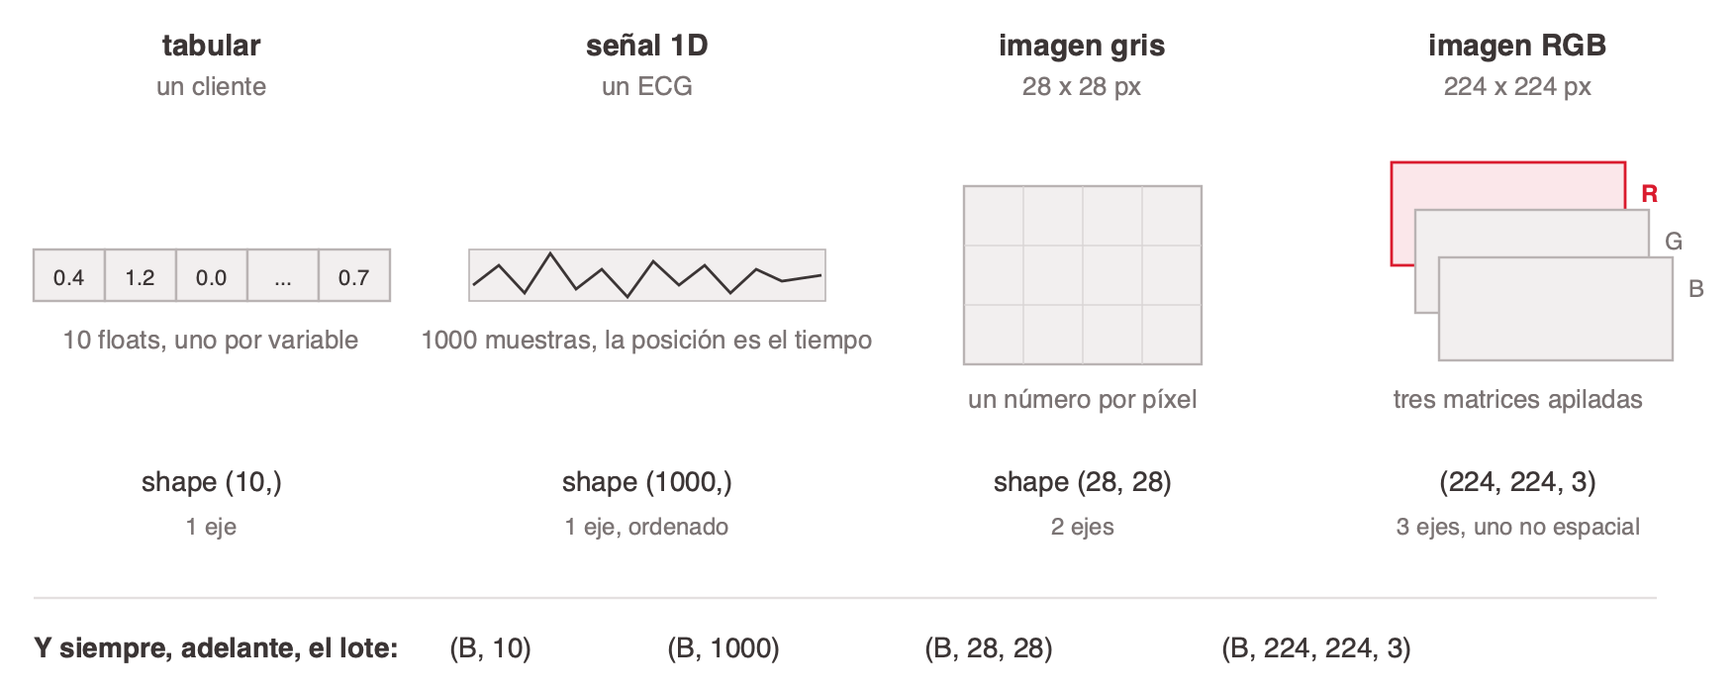
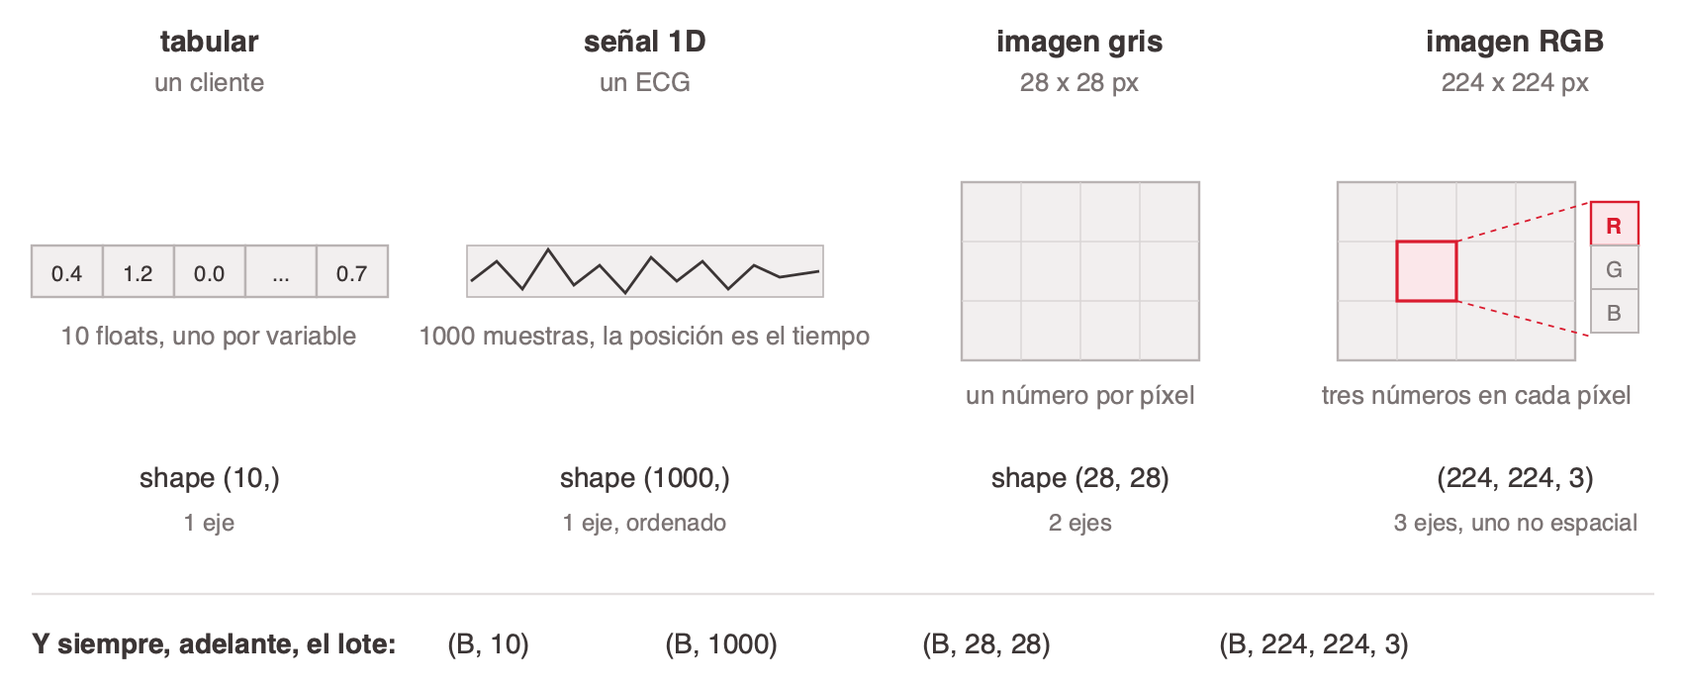
Fix.

diff --git a/talks/modelado-redes-neuronales/output/html/index.html b/talks/modelado-redes-neuronales/output/html/index.html
@@ -695,10 +695,10 @@ html.deck-ui .reveal .controls .navigate-left,html.deck-ui .reveal .controls .na
 </div>
 <aside class="notes"><p>Abrí con esto porque reordena toda la clase. La mayoría llega pensando que diseñar una red es elegir capas. Planteales la pregunta: ¿qué ve realmente la red cuando le pasás un cliente? La respuesta (un vector de números) es el hilo de las próximas dos secciones. Anclá la idea de traducción con pérdida: es la que justifica dedicarle 20 minutos a la entrada.</p></aside></section><section class="slide" data-kind="content+cards+image"><div class="stage d-split side-right">
 <div class="shead"><span class="pill">Qué se diseña de verdad</span><h2 class="stitle">Cómo se ve un tensor</h2><p class="lead">La forma del tensor la decide la estructura del dato, y es lo primero que hay que saber decir de un problema.</p></div><div class="cbody"><div class="cfit"><div class="ccicards">
-<div class="ccard sm fragment fade-up"><span class="ic"><svg fill="currentColor" xmlns="http://www.w3.org/2000/svg" viewBox="0 -960 960 960"><path d="M300-80q-24 0-42-18t-18-42v-520q0-24 18-42t42-18h520q24 0 42 18t18 42v520q0 24-18 42t-42 18H300Zm0-60h230v-147H300v147Zm290 0h230v-147H590v147ZM80-244v-576q0-24 18-42t42-18h576v60H140v576H80Zm220-103h230v-148H300v148Zm290 0h230v-148H590v148ZM300-555h520v-105H300v105Z"/></svg></span><h3>Tabular: un eje</h3><p>Un vector de largo fijo, una posición por variable ya codificada. Es el caso de esta clase.</p></div><div class="ccard sm fragment fade-up"><span class="ic"><svg fill="currentColor" xmlns="http://www.w3.org/2000/svg" viewBox="0 -960 960 960"><path d="m627-287 45-45-159-160v-201h-60v225l174 181ZM480-80q-82 0-155-31.5t-127.5-86Q143-252 111.5-325T80-480q0-82 31.5-155t86-127.5Q252-817 325-848.5T480-880q82 0 155 31.5t127.5 86Q817-708 848.5-635T880-480q0 82-31.5 155t-86 127.5Q708-143 635-111.5T480-80Zm0-400Zm0 340q140 0 240-100t100-240q0-140-100-240T480-820q-140 0-240 100T140-480q0 140 100 240t240 100Z"/></svg></span><h3>Señal 1D: un eje ordenado</h3><p>También un vector, pero la posición es el tiempo y las vecinas están relacionadas. Eso explota una Conv 1D.</p></div><div class="ccard sm fragment fade-up"><span class="ic"><svg fill="currentColor" xmlns="http://www.w3.org/2000/svg" viewBox="0 -960 960 960"><path d="M284-277h60v-205h-60v205Zm332 0h60v-420h-60v420Zm-166 0h60v-118h-60v118Zm0-205h60v-60h-60v60ZM180-120q-24 0-42-18t-18-42v-600q0-24 18-42t42-18h600q24 0 42 18t18 42v600q0 24-18 42t-42 18H180Zm0-60h600v-600H180v600Zm0-600v600-600Z"/></svg></span><h3>Imagen gris: dos ejes</h3><p>Una matriz, un número por píxel, con vecindad en alto y ancho.</p></div><div class="ccard sm fragment fade-up"><span class="ic"><svg fill="currentColor" xmlns="http://www.w3.org/2000/svg" viewBox="0 -960 960 960"><path d="M680-875q66 0 113 47t47 113q0 11-1.5 29.5T834-643l-55 403q-5 41-36 63.5T677-154q-21 0-41-9t-34-29L495-348q-2-3-6.5-5t-9.5-2q-2 0-16 9L359-195q-14 21-35 31t-43 10q-35 0-65.5-22.5T180-241l-54-402q-3-24-4.5-42.5T120-715q0-66 47-113t113-47q36 0 57.5 9.5T379-845q20 11 42.5 20.5T480-815q36 0 58.5-9.5T581-845q20-11 42-20.5t57-9.5Zm0 60q-23 0-40 7t-35 18q-32 18-59.5 26.5T480-755q-38 0-65-8.5T356-790q-18-11-35.5-18t-40.5-7q-42 0-71 29t-29 71q0 8 1 24t4 37l55 404q2 17 14.5 26t26.5 9q9 0 17-4.5t14-12.5l101-148q12-17 30-26t37-9q19 0 36.5 9t29.5 26l103 151q5 8 13 11.5t16 3.5q14 0 26.5-9.5T719-248l56-406q3-21 4-37t1-24q0-42-29-71t-71-29ZM480-515Z"/></svg></span><h3>Imagen RGB: tres ejes</h3><p>Tres matrices apiladas. El canal no es espacial: son tres variables en el mismo punto, y se puede reordenar.</p></div></div>
+<div class="ccard sm fragment fade-up"><span class="ic"><svg fill="currentColor" xmlns="http://www.w3.org/2000/svg" viewBox="0 -960 960 960"><path d="M300-80q-24 0-42-18t-18-42v-520q0-24 18-42t42-18h520q24 0 42 18t18 42v520q0 24-18 42t-42 18H300Zm0-60h230v-147H300v147Zm290 0h230v-147H590v147ZM80-244v-576q0-24 18-42t42-18h576v60H140v576H80Zm220-103h230v-148H300v148Zm290 0h230v-148H590v148ZM300-555h520v-105H300v105Z"/></svg></span><h3>Tabular: un eje</h3><p>Un vector de largo fijo, una posición por variable ya codificada. Es el caso de esta clase.</p></div><div class="ccard sm fragment fade-up"><span class="ic"><svg fill="currentColor" xmlns="http://www.w3.org/2000/svg" viewBox="0 -960 960 960"><path d="m627-287 45-45-159-160v-201h-60v225l174 181ZM480-80q-82 0-155-31.5t-127.5-86Q143-252 111.5-325T80-480q0-82 31.5-155t86-127.5Q252-817 325-848.5T480-880q82 0 155 31.5t127.5 86Q817-708 848.5-635T880-480q0 82-31.5 155t-86 127.5Q708-143 635-111.5T480-80Zm0-400Zm0 340q140 0 240-100t100-240q0-140-100-240T480-820q-140 0-240 100T140-480q0 140 100 240t240 100Z"/></svg></span><h3>Señal 1D: un eje, pero el orden importa</h3><p>También un vector, pero la posición es el tiempo y las vecinas están relacionadas. En tabular esa relación no existe.</p></div><div class="ccard sm fragment fade-up"><span class="ic"><svg fill="currentColor" xmlns="http://www.w3.org/2000/svg" viewBox="0 -960 960 960"><path d="M284-277h60v-205h-60v205Zm332 0h60v-420h-60v420Zm-166 0h60v-118h-60v118Zm0-205h60v-60h-60v60ZM180-120q-24 0-42-18t-18-42v-600q0-24 18-42t42-18h600q24 0 42 18t18 42v600q0 24-18 42t-42 18H180Zm0-60h600v-600H180v600Zm0-600v600-600Z"/></svg></span><h3>Imagen gris: dos ejes</h3><p>Una matriz, un número por píxel, con vecindad en alto y ancho.</p></div><div class="ccard sm fragment fade-up"><span class="ic"><svg fill="currentColor" xmlns="http://www.w3.org/2000/svg" viewBox="0 -960 960 960"><path d="M520-360h50v-90l84 90h66L608-480l112-120h-66l-84 90v-90h-50v240Zm-150 0h50v-63h40v-50h-40v-127h-50v127h-64v-127h-50v177h114v63ZM180-120q-24 0-42-18t-18-42v-600q0-24 18-42t42-18h600q24 0 42 18t18 42v600q0 24-18 42t-42 18H180Zm0-60h600v-600H180v600Zm0-600v600-600Z"/></svg></span><h3>Imagen RGB: tres ejes, y el tercero es distinto</h3><p>No son tres imágenes una atrás de otra: es la misma grilla, con tres números en cada píxel. Alto y ancho tienen vecindad; el canal no.</p></div></div>
 </div></div>
-<div class="highlights hl-bottom fragment fade-up"><div class="highlight note"><span class="ic"><svg fill="currentColor" xmlns="http://www.w3.org/2000/svg" viewBox="0 -960 960 960"><path d="M180-180h400v-200h200v-400H180v600Zm0 60q-24.75 0-42.37-17.63Q120-155.25 120-180v-600q0-24.75 17.63-42.38Q155.25-840 180-840h600q24.75 0 42.38 17.62Q840-804.75 840-780v420L600-120H180Zm120-300v-60h170v60H300Zm0-160v-60h360v60H300ZM180-180v-600 600Z"/></svg></span><p>El lote es una dimensión más, siempre adelante. Un <code>Dense(32)</code> que recibe <code>(B, 10)</code> devuelve <code>(B, 32)</code>: los mismos pesos se aplican a las B filas.</p></div></div><div class="smedia"><div class="imgph svg"><!-- talksmith-ascii-sha256: 55f4ff0f5bd879887e4936d1398d8ae567543619b772ea6fdf0751f08a0a7bca -->
-<svg xmlns="http://www.w3.org/2000/svg" viewBox="23 24 877 350" font-family="Helvetica, Arial, sans-serif" fill="#3B3535" font-size="13">
+<div class="highlights hl-bottom fragment fade-up"><div class="highlight note"><span class="ic"><svg fill="currentColor" xmlns="http://www.w3.org/2000/svg" viewBox="0 -960 960 960"><path d="M180-180h400v-200h200v-400H180v600Zm0 60q-24.75 0-42.37-17.63Q120-155.25 120-180v-600q0-24.75 17.63-42.38Q155.25-840 180-840h600q24.75 0 42.38 17.62Q840-804.75 840-780v420L600-120H180Zm120-300v-60h170v60H300Zm0-160v-60h360v60H300ZM180-180v-600 600Z"/></svg></span><p>El lote es una dimensión más, siempre adelante. Un <code>Dense(32)</code> que recibe <code>(B, 10)</code> devuelve <code>(B, 32)</code>: los mismos pesos se aplican a las B filas.</p></div><div class="highlight takeaway"><span class="ic"><svg fill="currentColor" xmlns="http://www.w3.org/2000/svg" viewBox="0 -960 960 960"><path d="M200-120v-680h343l19 86h238v370H544l-18.93-85H260v309h-60Zm300-452Zm95 168h145v-250H511l-19-86H260v251h316l19 85Z"/></svg></span><p>El resto de la clase trabaja sobre el primer caso, el tabular. Los otros tres están para que se vea que la forma la decide el dato.</p></div></div><div class="smedia"><div class="imgph svg"><!-- talksmith-ascii-sha256: 55f4ff0f5bd879887e4936d1398d8ae567543619b772ea6fdf0751f08a0a7bca -->
+<svg xmlns="http://www.w3.org/2000/svg" viewBox="24 26 851 348" font-family="Helvetica, Arial, sans-serif" fill="#3B3535" font-size="13">
   <title>Cómo se ve un tensor</title>
   <desc>La forma del tensor la decide la estructura del dato: un eje en tabular y señal, dos en una imagen gris, tres en RGB.</desc>
   <rect x="0" y="0" width="900" height="400" fill="#ffffff"/>
@@ -737,13 +737,19 @@ html.deck-ui .reveal .controls .navigate-left,html.deck-ui .reveal .controls .na
   <text x="570" y="200" text-anchor="middle" fill="#7A7373"> </text>
   <text x="570" y="230" text-anchor="middle" fill="#7A7373">un número por píxel</text>
 
-  <rect x="726" y="106" width="118" height="52" fill="#FBE7EA" stroke="#DA1B2E" stroke-width="1.4"/>
-  <rect x="738" y="130" width="118" height="52" fill="#F2EFEF" stroke="#B9B3B3" stroke-width="1.2"/>
-  <rect x="750" y="154" width="118" height="52" fill="#F2EFEF" stroke="#B9B3B3" stroke-width="1.2"/>
-  <text x="852" y="126" font-size="12" text-anchor="start" font-weight="bold" fill="#DA1B2E">R</text>
-  <text x="864" y="150" font-size="12" text-anchor="start" fill="#7A7373">G</text>
-  <text x="876" y="174" font-size="12" text-anchor="start" fill="#7A7373">B</text>
-  <text x="790" y="230" text-anchor="middle" fill="#7A7373">tres matrices apiladas</text>
+  <rect x="700" y="118" width="120" height="90" fill="#F2EFEF" stroke="#B9B3B3" stroke-width="1.2"/>
+  <g stroke="#D9D4D4" stroke-width="0.7">
+    <path d="M 730 118 L 730 208 M 760 118 L 760 208 M 790 118 L 790 208 M 700 148 L 820 148 M 700 178 L 820 178"/>
+  </g>
+  <rect x="730" y="148" width="30" height="30" fill="#FBE7EA" stroke="#DA1B2E" stroke-width="1.6"/>
+  <path d="M 760 148 L 828 128 M 760 178 L 828 196" stroke="#DA1B2E" stroke-width="0.9" fill="none" stroke-dasharray="3 3"/>
+  <rect x="828" y="128" width="24" height="22" fill="#FBE7EA" stroke="#DA1B2E" stroke-width="1.2"/>
+  <rect x="828" y="150" width="24" height="22" fill="#F2EFEF" stroke="#B9B3B3" stroke-width="1"/>
+  <rect x="828" y="172" width="24" height="22" fill="#F2EFEF" stroke="#B9B3B3" stroke-width="1"/>
+  <text x="840" y="144" font-size="11" text-anchor="middle" font-weight="bold" fill="#DA1B2E">R</text>
+  <text x="840" y="166" font-size="11" text-anchor="middle" fill="#7A7373">G</text>
+  <text x="840" y="188" font-size="11" text-anchor="middle" fill="#7A7373">B</text>
+  <text x="770" y="230" text-anchor="middle" fill="#7A7373">tres números en cada píxel</text>
 
   <text x="130" y="272" font-size="14" text-anchor="middle" font-weight="bold" font-family="'DejaVu Sans Mono', monospace">shape (10,)</text>
   <text x="350" y="272" font-size="14" text-anchor="middle" font-weight="bold" font-family="'DejaVu Sans Mono', monospace">shape (1000,)</text>
@@ -762,7 +768,7 @@ html.deck-ui .reveal .controls .navigate-left,html.deck-ui .reveal .controls .na
   <text x="490" y="356" font-size="14" font-family="'DejaVu Sans Mono', monospace">(B, 28, 28)</text>
   <text x="640" y="356" font-size="14" font-family="'DejaVu Sans Mono', monospace">(B, 224, 224, 3)</text>
 </svg></div></div></div>
-<aside class="notes"><p>Esta diapositiva vuelve concreto lo que la anterior definió. La pregunta que funciona antes de mostrarla: si les paso una foto de 224 por 224 en color, ¿cuántos números son? Respuesta, 150.528. El punto que más rinde es el del canal: casi todos asumen que los tres ejes de una imagen RGB son espacio, y el tercero no lo es, son tres mediciones en el mismo píxel. De ahí sale la convención que rompe todo al portar código: PyTorch usa (N, C, H, W) y TensorFlow (N, H, W, C); olvidar el permute no explota, da resultados malos, que es peor. El lote va al pasar, pero decilo: es la dimensión que aparece en todos los errores de shape que van a ver.</p></aside></section><section class="slide" data-kind="concept-breakdown"><div class="stage d-full">
+<aside class="notes"><p>Esta diapositiva vuelve concreto lo que la anterior definió, y se da rápido. La pregunta que funciona antes de mostrarla: si les paso una foto de 224 por 224 en color, ¿cuántos números son? Respuesta, 150.528. El punto que más rinde es el del canal: casi todos asumen que los tres ejes de una imagen RGB son espacio, y el tercero no lo es. La imagen que lo arregla: no son tres fotos una atrás de la otra, es una sola foto donde cada píxel guarda tres números. El lote va al pasar, pero decilo: es la dimensión que aparece en todos los errores de shape que van a ver. La pregunta que sale seguido: si un píxel tiene tres números, ¿cómo entra eso a la red? Se aplana, y el aplanado es una capa que vos ponés, Flatten() en Keras o nn.Flatten() en PyTorch: una capa densa opera solo sobre el último eje y no aplana sola. Medido: Dense(32) sobre (8,224,224,3) sin aplanar da (8,224,224,32) con 128 parámetros, un peso por canal; con Flatten() antes da (8,32) con 4,8 millones. O sea que el framework por defecto trata el canal como el eje de variables. Lo que se pierde al aplanar es que tres números eran del mismo píxel y que dos píxeles eran vecinos: eso vive en el dato, no en lo que la red usa. Cerrá volviendo al primer panel: el resto de la clase trabaja sobre el caso tabular.</p></aside></section><section class="slide" data-kind="concept-breakdown"><div class="stage d-full">
 <div class="shead"><span class="pill">Qué se diseña de verdad</span><h2 class="stitle">Lo que hay que diseñar</h2><p class="lead">Diseñar una red son seis decisiones, y la que todos creen que es la principal, cuántas capas ponerle, es la que menos pesa. Son las seis que recorre esta clase, en este orden.</p></div><div class="cbody"><div class="cfit"><div class="editgrid">
 <div class="eitem fragment fade-up"><span class="ic"><svg fill="currentColor" xmlns="http://www.w3.org/2000/svg" viewBox="0 -960 960 960"><path d="M320-242 80-482l242-242 43 43-199 199 197 197-43 43Zm318 2-43-43 199-199-197-197 43-43 240 240-242 242Z"/></svg></span><h3>La entrada</h3><p>Cómo cada variable se convierte en floats. Donde se gana o se pierde el modelo.</p></div>
 <div class="eitem fragment fade-up"><span class="ic"><svg fill="currentColor" xmlns="http://www.w3.org/2000/svg" viewBox="0 -960 960 960"><path d="M290-290h140v-140H290v140Zm240 0h140v-140H530v140ZM290-530h140v-140H290v140Zm240 0h140v-140H530v140ZM180-120q-24 0-42-18t-18-42v-600q0-24 18-42t42-18h600q24 0 42 18t18 42v600q0 24-18 42t-42 18H180Zm0-60h600v-600H180v600Zm0-600v600-600Z"/></svg></span><h3>El dataset</h3><p>Cómo se parte en train, validación y test. Sin esto ninguna métrica es honesta.</p></div>

diff --git a/talks/modelado-redes-neuronales/draft.md b/talks/modelado-redes-neuronales/draft.md
@@ -100,11 +100,13 @@ labels: tabular shape (10,), señal shape (1000,), imagen gris shape (28,28), RG
 -->
 
 - **Tabular: un eje.** Un vector de largo fijo, una posición por variable ya codificada. Es el caso de esta clase.
-- **Señal 1D: un eje, pero el orden importa.** También es un vector, pero la posición es el tiempo y las vecinas están relacionadas. Eso es lo que explota una Conv 1D y lo que en tabular no existe.
+- **Señal 1D: un eje, pero el orden importa.** También es un vector, pero la posición es el tiempo y las posiciones vecinas están relacionadas. En tabular esa relación no existe.
 - **Imagen en gris: dos ejes.** Una matriz, un número por píxel, con vecindad en alto y ancho.
-- **Imagen RGB: tres ejes.** Tres matrices apiladas. Ojo con el tercero: **el canal no es espacial**. Se comporta como tabular, son tres variables distintas medidas en el mismo punto, y por eso se puede reordenar sin cambiar nada.
+- **Imagen RGB: tres ejes, y el tercero es distinto.** No son tres imágenes una atrás de la otra: es **la misma grilla, con tres números en cada píxel**. Alto y ancho tienen vecindad; el canal no, R no está "cerca" de G. Son tres mediciones en el mismo punto, como tres columnas de una tabla.
 
 **Nota:** el lote es una dimensión más, siempre adelante. Un `Dense(32)` que recibe `(B, 10)` devuelve `(B, 32)`: los mismos pesos se aplican a las B filas.
+
+El resto de la clase trabaja sobre el primer caso, el tabular. Los otros tres están para que se vea que la forma la decide el dato.
 
 ### Sources
 
@@ -112,9 +114,25 @@ corpus/chat.md.md (§2 El input: principio general; el eje de canales)
 
 ### Speaker notes
 
-Esta diapositiva vuelve concreto lo que la anterior definió. La pregunta que funciona antes de mostrarla: si les paso una foto de 224 por 224 en color, ¿cuántos números son? Respuesta, 150.528. Sirve para que dimensionen. El punto que más rinde es el del canal: casi todos asumen que los tres ejes de una imagen RGB son "espacio", y el tercero no lo es, son tres mediciones en el mismo píxel. Es reordenable, igual que las columnas de una tabla. De ahí sale la convención que rompe todo al portar código: PyTorch usa (N, C, H, W) y TensorFlow (N, H, W, C); olvidar el permute no explota, da resultados malos, que es peor. El lote va al pasar, pero decilo: es la dimensión que aparece en todos los mensajes de error de shape que van a ver.
+Esta diapositiva vuelve concreto lo que la anterior definió, y se da rápido. La pregunta que funciona antes de mostrarla: si les paso una foto de 224 por 224 en color, ¿cuántos números son? Respuesta, 150.528. Sirve para que dimensionen. El punto que más rinde es el del canal: casi todos asumen que los tres ejes de una imagen RGB son "espacio", y el tercero no lo es. La imagen que lo arregla: no son tres fotos una atrás de la otra, es una sola foto donde cada píxel guarda tres números. No te metas con qué arquitectura aprovecha cada forma, eso no es esta clase; alcanza con que vean que la forma la decide el dato. El lote va al pasar, pero decilo: es la dimensión que aparece en todos los mensajes de error de shape que van a ver.
+
+La pregunta que sale seguido acá, tenela lista: si un píxel tiene tres números, ¿cómo entra eso a la red? Se aplana, y el aplanado es una capa que vos ponés, `Flatten()` en Keras o `nn.Flatten()` en PyTorch. Los 224 por 224 por 3 se estiran en una fila de 150.528 floats y a partir de ahí la red los trata como 150.528 variables sueltas, igual que las columnas de una tabla. Modelar siempre se puede; lo que se pierde al aplanar es que tres de esos números eran del mismo píxel y que dos píxeles eran vecinos. Esa estructura vive en el dato, no en lo que la red usa.
+
+Dato verificado que sirve si querés cerrar la idea del canal: una capa densa opera **solo sobre el último eje**, no aplana sola (Keras: "Dense computes the dot product between the inputs and the kernel along the last axis"; PyTorch nn.Linear: "all but the last dimension are the same shape as the input"). Si le pasás la imagen RGB sin aplanar, el kernel queda de (3, 32) y son 128 parámetros: un peso por canal, la misma transformación repetida en los 50.176 píxeles. Con Flatten primero, el kernel pasa a (150.528, 32) y son 4,8 millones. O sea que el framework, por defecto, trata el canal como el eje de variables, que es justo lo que dice la card.
+
+Cerrá volviendo al primer panel: el resto de la clase trabaja sobre el caso tabular.
 
 ### Presenter feedback
+- [closed] 2026-08-19 — "Confirmá esto con documentación formal sobre cómo modelar esto en un NN."
+  Resolution: Verificado contra la documentación de Keras y PyTorch, y ejecutado en el venv de la misión. La nota anterior decía "se aplana" como si fuera automático y **eso estaba mal**: una capa densa opera solo sobre el último eje y no aplana sola. Keras: "If the input to the layer has a rank greater than 2, Dense computes the dot product between the inputs and the kernel along the last axis of the inputs". PyTorch nn.Linear: "Output: (*, H_out) where all but the last dimension are the same shape as the input". Aplanar es una capa explícita, Flatten() o nn.Flatten(). Medido: Dense(32) sobre (8,224,224,3) sin aplanar devuelve (8,224,224,32) con 128 parámetros, que es kernel (3,32) más bias; con Flatten() antes devuelve (8,32) con 4.816.928, que es kernel (150.528,32) más bias. El hallazgo confirma la card: el framework por defecto trata el eje de canal como el eje de variables. También valida el número del corpus, los 38,5M eran con 256 unidades.
+- [closed] 2026-08-19 — "Pero si son tres números en el mismo píxel, ¿no se puede modelar la red?"
+  Resolution: Sí se puede, y es exactamente la pregunta que va a hacer un alumno, así que quedó anticipada en las notas del orador. Para una red densa se aplana: los 224 por 224 por 3 se estiran en una fila de 150.528 floats y la red los trata como 150.528 variables sueltas, igual que las columnas de una tabla. Lo que se pierde al aplanar es que tres de esos números eran del mismo píxel y que dos píxeles eran vecinos: esa estructura vive en el dato, no en lo que la red usa. La respuesta refuerza la tesis de la clase, que la red ve un vector de floats, y deja claro que la forma importa para elegir arquitectura, no para poder modelar. No se agregó nada al contenido visible para no reintroducir el ruido de arquitecturas.
+- [closed] 2026-08-19 — "Acá estamos no explicando redes convolucionales. El hablar de muchas capas produce ruido."
+  Resolution: Se sacó todo lo convolucional. La card de señal ya no menciona Conv 1D, la de RGB ya no habla de reordenar (era la afirmación que arrastraba la explicación de Conv2D para tener sentido) y las notas del orador perdieron el párrafo de kernels, pesos compartidos y conteos de parámetros. Queda solo la forma del tensor, más una línea que aclara que el resto de la clase va sobre el caso tabular.
+- [closed] 2026-08-19 — "El apilada no está bien."
+  Resolution: Correcto, y era el peor error de la diapositiva. "Tres matrices apiladas" sugiere profundidad, o sea un tercer eje espacial, que es exactamente la confusión que la card quería corregir. Y el diagrama las dibujaba apiladas con desfase, reforzando el error. Ahora la card dice "la misma grilla, con tres números en cada píxel" y el diagrama muestra una sola grilla con un píxel ampliado que guarda R, G y B.
+- [closed] 2026-08-19 — "'El canal no es espacial: son tres variables en el mismo punto, y se puede reordenar.' ¿No es verdad si es un DNN?"
+  Resolution: La afirmación es cierta sobre el dato (el canal no tiene vecindad, alto y ancho sí), pero la card decía "se puede reordenar sin cambiar nada" sin decir respecto de qué, y ahí el comentario tiene razón: el contraste solo tiene consecuencias contra una Conv2D, que es la que trata alto y ancho como espacio al deslizar el mismo kernel. En un Dense sobre la imagen aplanada no hay ningún eje espacial y todas las posiciones son reordenables, las espaciales incluidas. La card pasó a decir que el canal es el único de los tres que se puede reordenar, que es lo preciso, y las notas del orador suman el matiz completo con los números del corpus: kernel 3×3 sobre RGB son 27 pesos y no 9; RGB 224×224 aplanada son 150.528 entradas y 38,5M de parámetros en la primera capa contra 896 de un Conv2d(3,32,3).
 - [closed] 2026-08-19 — "Agregar después de 'La red no ve el problema, ve un tensor' cómo son estos tensores si vemos una señal 1D, imagen con un color, RGB y el input. Creo que lo mejor es que solo sea un slide con ASCII."
   Resolution: Nueva diapositiva 1.2 "Cómo se ve un tensor", con un solo diagrama que muestra los cuatro casos y su shape, de un eje a tres, más la dimensión de lote que se antepone en todos. Cuatro cards cortas, una por caso, y el canal RGB marcado como no espacial, que es el punto que menos se entiende. Las diapositivas 1.2 a 1.4 pasaron a 1.3 a 1.5.
 

diff --git a/talks/modelado-redes-neuronales/memory.md b/talks/modelado-redes-neuronales/memory.md
@@ -329,3 +329,33 @@ quiero crear una nueva presentacion que va a cubrir aspectos del diseno y input,
 - Files created/modified: draft.md, final.md, images/s1-2-1-formas-de-tensor.{ascii,svg,png} nuevo, s1-4-1-neurona.* y s1-5-1-activaciones-ocultas.* renombrados, output/slide-model.json, output/html/index.html, /index.html, config/feedback-backlog.md
 - Verificación: cero usos incorrectos de "neurona" para el input, cero anglicismos "slide", 12 huecos de imagen con SVG inlineado y ninguno vacío, auditorías en verde.
 - Pending open questions: 41 diapositivas para 90 minutos. Es el punto abierto más serio y está anotado en Open questions con las candidatas a recortar.
+
+## 2026-08-19 — Step 5/6/7 — ronda 17
+- Status: complete
+- Asks log:
+  - 2026-08-19 — "'El canal no es espacial... y se puede reordenar' ¿no es verdad si es un DNN?"
+- What was decided: La objeción era parcialmente correcta y valía la corrección. La afirmación sobre el dato es cierta (el canal no tiene vecindad, alto y ancho sí), pero la card decía "se puede reordenar sin cambiar nada" sin decir respecto de qué. El contraste solo tiene consecuencias contra una Conv2D, que trata alto y ancho como espacio al deslizar el mismo kernel; en un Dense sobre la imagen aplanada no hay ningún eje espacial y todas las posiciones son reordenables, las espaciales incluidas. La card pasó a decir que el canal es el único de los tres reordenable, y las notas del orador incorporan el matiz completo con los números del corpus: kernel 3x3 sobre RGB son 27 pesos y no 9; RGB 224x224 aplanada son 150.528 entradas y 38,5M de parámetros en la primera capa contra 896 de un Conv2d(3,32,3).
+- El matiz refuerza la tesis de la clase en vez de debilitarla: que un Dense no distinga ejes es exactamente por qué es la arquitectura equivocada para una imagen.
+- Key inputs: draft.md, corpus/chat.md.md (líneas 30, 81, 161, 296: el eje de canales y los conteos de parámetros).
+- Files created/modified: draft.md, final.md, output/slide-model.json, output/html/index.html, /index.html, config/feedback-backlog.md
+
+## 2026-08-19 — Step 5/6/7 — ronda 18
+- Status: complete
+- Asks log:
+  - 2026-08-19 — "Acá no estamos explicando redes convolucionales. Hablar de muchas capas produce ruido."
+  - 2026-08-19 — "El apilada no está bien."
+- What was decided: (a) Se sacó todo lo convolucional de la 1.2. La card de señal ya no menciona Conv 1D y la de RGB ya no habla de reordenar, que era la afirmación que obligaba a explicar Conv2D para tener sentido; las notas perdieron el párrafo de kernels, pesos compartidos y conteos de parámetros que yo mismo había agregado la ronda anterior. En el mazo entero solo queda una mención a convolución, la columna "Arquitectura" de la tabla de la 2.1, que es un nombre por fila y no una explicación. Se agregó una línea que declara el alcance: el resto de la clase trabaja sobre el caso tabular. (b) "Tres matrices apiladas" era un error, no una imprecisión: apilar sugiere profundidad, o sea un tercer eje espacial, que es justo la confusión que la card quería corregir. Y el diagrama las dibujaba apiladas con desfase. Ahora la card dice "la misma grilla, con tres números en cada píxel" y el diagrama muestra una sola grilla, igual que la de escala de grises, con un píxel ampliado que guarda R, G y B. El paralelismo entre los dos paneles hace el punto sin texto.
+- Aprendizaje de proceso: en la ronda 17 respondí una objeción del presentador agregando precisión técnica a las notas, y esa precisión se salió del alcance de la clase. La respuesta correcta a "esto no es del todo cierto" no siempre es explicar más; acá era sacar la afirmación que no se podía sostener sin material de otra clase.
+- Files created/modified: draft.md, final.md, images/s1-2-1-formas-de-tensor.{svg,png}, output/slide-model.json, output/html/index.html, /index.html, config/feedback-backlog.md
+
+## 2026-08-19 — Step 5/6/7 — ronda 19
+- Status: complete
+- Asks log:
+  - 2026-08-19 — "Pero si son tres números en el mismo píxel, ¿no se puede modelar la red?"
+  - 2026-08-19 — "Confirmá esto con documentación formal sobre cómo modelar esto en un NN."
+- What was decided: La pregunta quedó anticipada en las notas del orador, y la verificación contra documentación encontró un error en mi primera respuesta. Yo había dicho "se aplana" como si fuera automático y no lo es: una capa densa opera solo sobre el último eje. Keras: "If the input to the layer has a rank greater than 2, Dense computes the dot product between the inputs and the kernel along the last axis of the inputs". PyTorch nn.Linear: "Output: (*, H_out) where all but the last dimension are the same shape as the input". Aplanar es una capa explícita, Flatten() o nn.Flatten().
+- Verificación empírica en el venv de missions/clase3: Dense(32) sobre (8,224,224,3) sin aplanar devuelve (8,224,224,32) con 128 parámetros, que es kernel (3,32) más bias; con Flatten() antes devuelve (8,32) con 4.816.928, que es kernel (150.528,32) más bias.
+- El hallazgo confirma la card en vez de contradecirla: el framework, por defecto, trata el eje de canal como el eje de variables, o sea que "tres columnas de una tabla" no es una analogía pedagógica sino lo que Keras hace literalmente. También valida el número del corpus: los 38,5M eran con 256 unidades (150.528 x 256 + 256 = 38.535.424).
+- Fuentes: https://keras.io/api/layers/core_layers/dense/ , https://keras.io/api/layers/reshaping_layers/flatten/ , https://docs.pytorch.org/docs/2.13/generated/torch.nn.Linear.html
+- Files created/modified: draft.md, final.md, output/slide-model.json, output/html/index.html, /index.html, config/feedback-backlog.md
+- Pending open questions: las citas de Keras y PyTorch están en las notas del orador pero no en el corpus. Si se quieren como fuente formal de la Talk, habría que ingerir las dos páginas de documentación en la Colecta.

diff --git a/config/feedback-backlog.md b/config/feedback-backlog.md
@@ -579,3 +579,33 @@
   feedback: "Mostrar 'la matriz N×N'. Tal vez el slide hay que partirlo en dos. Son dos conceptos distintos."
   resolution: Este comentario quedó sin procesar porque estaba escrito sin espacio después del guion y el barrido no lo detectó. Pedía lo contrario de la instrucción posterior ("enfoquémonos solo a 2 clases, poner solo una nota al final"), que es la que vale por ser más reciente. La diapositiva no se parte: la matriz con más de dos clases queda como nota al pie y el ejemplo del clasificador de dígitos en las notas del orador. Si más adelante se quiere una diapositiva propia de multiclase, el material está en las notas.
   tags: [consistency, new-slide, superseded]
+- talk: modelado-redes-neuronales
+  date: 2026-08-19
+  location: Slide "2. Cómo se ve un tensor"
+  feedback: "'El canal no es espacial: son tres variables en el mismo punto, y se puede reordenar.' ¿No es verdad si es un DNN?"
+  resolution: La afirmación es cierta sobre el dato (el canal no tiene vecindad, alto y ancho sí), pero la card decía "se puede reordenar sin cambiar nada" sin decir respecto de qué, y ahí el comentario tiene razón: el contraste solo tiene consecuencias contra una Conv2D, que es la que trata alto y ancho como espacio al deslizar el mismo kernel. En un Dense sobre la imagen aplanada no hay ningún eje espacial y todas las posiciones son reordenables, las espaciales incluidas. La card pasó a decir que el canal es el único de los tres que se puede reordenar, que es lo preciso, y las notas del orador suman el matiz completo con los números del corpus: kernel 3×3 sobre RGB son 27 pesos y no 9; RGB 224×224 aplanada son 150.528 entradas y 38,5M de parámetros en la primera capa contra 896 de un Conv2d(3,32,3).
+  tags: [factual-correction, precision]
+- talk: modelado-redes-neuronales
+  date: 2026-08-19
+  location: Slide "2. Cómo se ve un tensor"
+  feedback: "Acá estamos no explicando redes convolucionales. El hablar de muchas capas produce ruido."
+  resolution: Se sacó todo lo convolucional. La card de señal ya no menciona Conv 1D, la de RGB ya no habla de reordenar (era la afirmación que arrastraba la explicación de Conv2D para tener sentido) y las notas del orador perdieron el párrafo de kernels, pesos compartidos y conteos de parámetros. Queda solo la forma del tensor, más una línea que aclara que el resto de la clase va sobre el caso tabular.
+  tags: [scope, factual-correction]
+- talk: modelado-redes-neuronales
+  date: 2026-08-19
+  location: Slide "2. Cómo se ve un tensor"
+  feedback: "El apilada no está bien."
+  resolution: Correcto, y era el peor error de la diapositiva. "Tres matrices apiladas" sugiere profundidad, o sea un tercer eje espacial, que es exactamente la confusión que la card quería corregir. Y el diagrama las dibujaba apiladas con desfase, reforzando el error. Ahora la card dice "la misma grilla, con tres números en cada píxel" y el diagrama muestra una sola grilla con un píxel ampliado que guarda R, G y B.
+  tags: [scope, factual-correction]
+- talk: modelado-redes-neuronales
+  date: 2026-08-19
+  location: Slide "2. Cómo se ve un tensor"
+  feedback: "Confirmá esto con documentación formal sobre cómo modelar esto en un NN."
+  resolution: Verificado contra la documentación de Keras y PyTorch, y ejecutado en el venv de la misión. La nota anterior decía "se aplana" como si fuera automático y **eso estaba mal**: una capa densa opera solo sobre el último eje y no aplana sola. Keras: "If the input to the layer has a rank greater than 2, Dense computes the dot product between the inputs and the kernel along the last axis of the inputs". PyTorch nn.Linear: "Output: (*, H_out) where all but the last dimension are the same shape as the input". Aplanar es una capa explícita, Flatten() o nn.Flatten(). Medido: Dense(32) sobre (8,224,224,3) sin aplanar devuelve (8,224,224,32) con 128 parámetros, que es kernel (3,32) más bias; con Flatten() antes devuelve (8,32) con 4.816.928, que es kernel (150.528,32) más bias. El hallazgo confirma la card: el framework por defecto trata el eje de canal como el eje de variables. También valida el número del corpus, los 38,5M eran con 256 unidades.
+  tags: [factual-correction, external-source]
+- talk: modelado-redes-neuronales
+  date: 2026-08-19
+  location: Slide "2. Cómo se ve un tensor"
+  feedback: "Pero si son tres números en el mismo píxel, ¿no se puede modelar la red?"
+  resolution: Sí se puede, y es exactamente la pregunta que va a hacer un alumno, así que quedó anticipada en las notas del orador. Para una red densa se aplana: los 224 por 224 por 3 se estiran en una fila de 150.528 floats y la red los trata como 150.528 variables sueltas, igual que las columnas de una tabla. Lo que se pierde al aplanar es que tres de esos números eran del mismo píxel y que dos píxeles eran vecinos: esa estructura vive en el dato, no en lo que la red usa. La respuesta refuerza la tesis de la clase, que la red ve un vector de floats, y deja claro que la forma importa para elegir arquitectura, no para poder modelar. No se agregó nada al contenido visible para no reintroducir el ruido de arquitecturas.
+  tags: [factual-correction, external-source]

diff --git a/talks/modelado-redes-neuronales/final.md b/talks/modelado-redes-neuronales/final.md
@@ -87,11 +87,13 @@ labels: tabular shape (10,), señal shape (1000,), imagen gris shape (28,28), RG
 -->
 
 - **Tabular: un eje.** Un vector de largo fijo, una posición por variable ya codificada. Es el caso de esta clase.
-- **Señal 1D: un eje, pero el orden importa.** También es un vector, pero la posición es el tiempo y las vecinas están relacionadas. Eso es lo que explota una Conv 1D y lo que en tabular no existe.
+- **Señal 1D: un eje, pero el orden importa.** También es un vector, pero la posición es el tiempo y las posiciones vecinas están relacionadas. En tabular esa relación no existe.
 - **Imagen en gris: dos ejes.** Una matriz, un número por píxel, con vecindad en alto y ancho.
-- **Imagen RGB: tres ejes.** Tres matrices apiladas. Ojo con el tercero: **el canal no es espacial**. Se comporta como tabular, son tres variables distintas medidas en el mismo punto, y por eso se puede reordenar sin cambiar nada.
+- **Imagen RGB: tres ejes, y el tercero es distinto.** No son tres imágenes una atrás de la otra: es **la misma grilla, con tres números en cada píxel**. Alto y ancho tienen vecindad; el canal no, R no está "cerca" de G. Son tres mediciones en el mismo punto, como tres columnas de una tabla.
 
 **Nota:** el lote es una dimensión más, siempre adelante. Un `Dense(32)` que recibe `(B, 10)` devuelve `(B, 32)`: los mismos pesos se aplican a las B filas.
+
+El resto de la clase trabaja sobre el primer caso, el tabular. Los otros tres están para que se vea que la forma la decide el dato.
 
 ### Sources
 
@@ -99,7 +101,13 @@ corpus/chat.md.md (§2 El input: principio general; el eje de canales)
 
 ### Speaker notes
 
-Esta diapositiva vuelve concreto lo que la anterior definió. La pregunta que funciona antes de mostrarla: si les paso una foto de 224 por 224 en color, ¿cuántos números son? Respuesta, 150.528. Sirve para que dimensionen. El punto que más rinde es el del canal: casi todos asumen que los tres ejes de una imagen RGB son "espacio", y el tercero no lo es, son tres mediciones en el mismo píxel. Es reordenable, igual que las columnas de una tabla. De ahí sale la convención que rompe todo al portar código: PyTorch usa (N, C, H, W) y TensorFlow (N, H, W, C); olvidar el permute no explota, da resultados malos, que es peor. El lote va al pasar, pero decilo: es la dimensión que aparece en todos los mensajes de error de shape que van a ver.
+Esta diapositiva vuelve concreto lo que la anterior definió, y se da rápido. La pregunta que funciona antes de mostrarla: si les paso una foto de 224 por 224 en color, ¿cuántos números son? Respuesta, 150.528. Sirve para que dimensionen. El punto que más rinde es el del canal: casi todos asumen que los tres ejes de una imagen RGB son "espacio", y el tercero no lo es. La imagen que lo arregla: no son tres fotos una atrás de la otra, es una sola foto donde cada píxel guarda tres números. No te metas con qué arquitectura aprovecha cada forma, eso no es esta clase; alcanza con que vean que la forma la decide el dato. El lote va al pasar, pero decilo: es la dimensión que aparece en todos los mensajes de error de shape que van a ver.
+
+La pregunta que sale seguido acá, tenela lista: si un píxel tiene tres números, ¿cómo entra eso a la red? Se aplana, y el aplanado es una capa que vos ponés, `Flatten()` en Keras o `nn.Flatten()` en PyTorch. Los 224 por 224 por 3 se estiran en una fila de 150.528 floats y a partir de ahí la red los trata como 150.528 variables sueltas, igual que las columnas de una tabla. Modelar siempre se puede; lo que se pierde al aplanar es que tres de esos números eran del mismo píxel y que dos píxeles eran vecinos. Esa estructura vive en el dato, no en lo que la red usa.
+
+Dato verificado que sirve si querés cerrar la idea del canal: una capa densa opera **solo sobre el último eje**, no aplana sola (Keras: "Dense computes the dot product between the inputs and the kernel along the last axis"; PyTorch nn.Linear: "all but the last dimension are the same shape as the input"). Si le pasás la imagen RGB sin aplanar, el kernel queda de (3, 32) y son 128 parámetros: un peso por canal, la misma transformación repetida en los 50.176 píxeles. Con Flatten primero, el kernel pasa a (150.528, 32) y son 4,8 millones. O sea que el framework, por defecto, trata el canal como el eje de variables, que es justo lo que dice la card.
+
+Cerrá volviendo al primer panel: el resto de la clase trabaja sobre el caso tabular.
 
 ---
 
